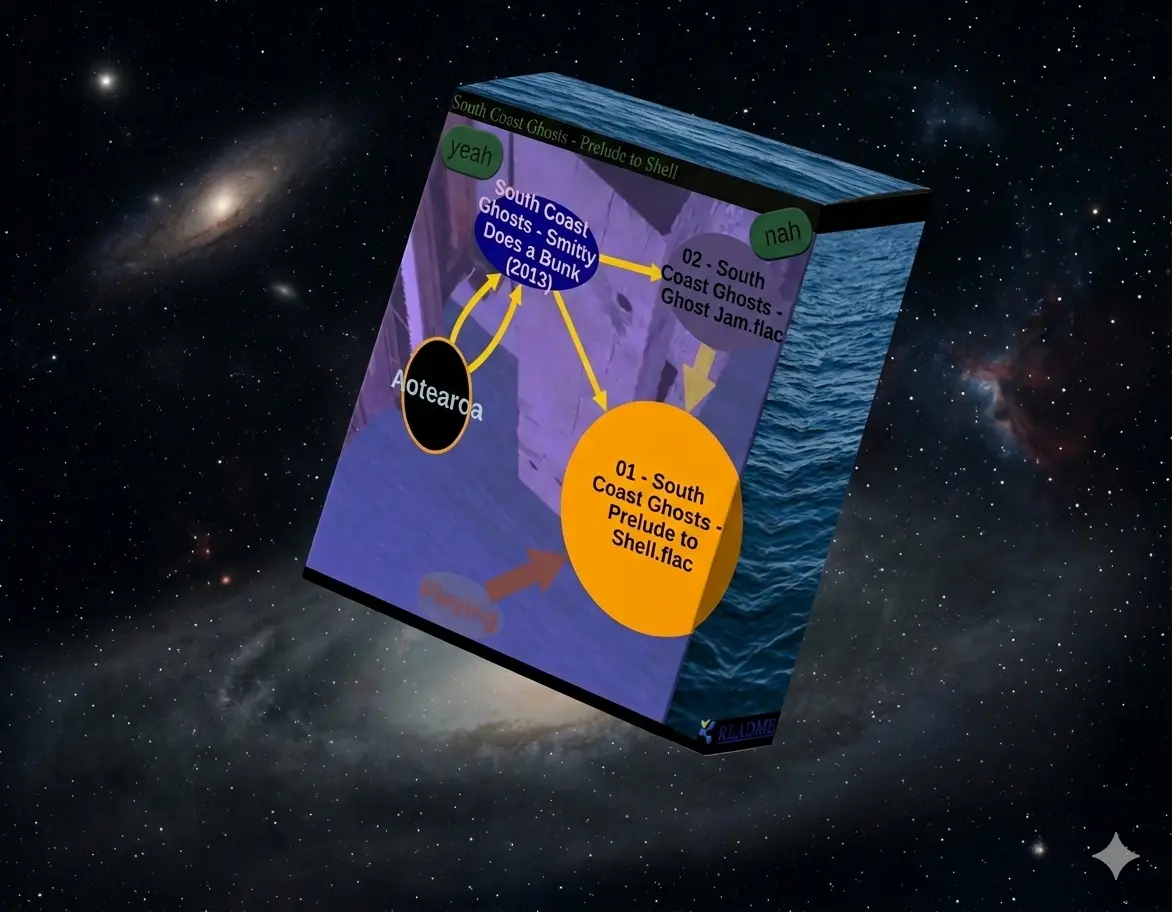
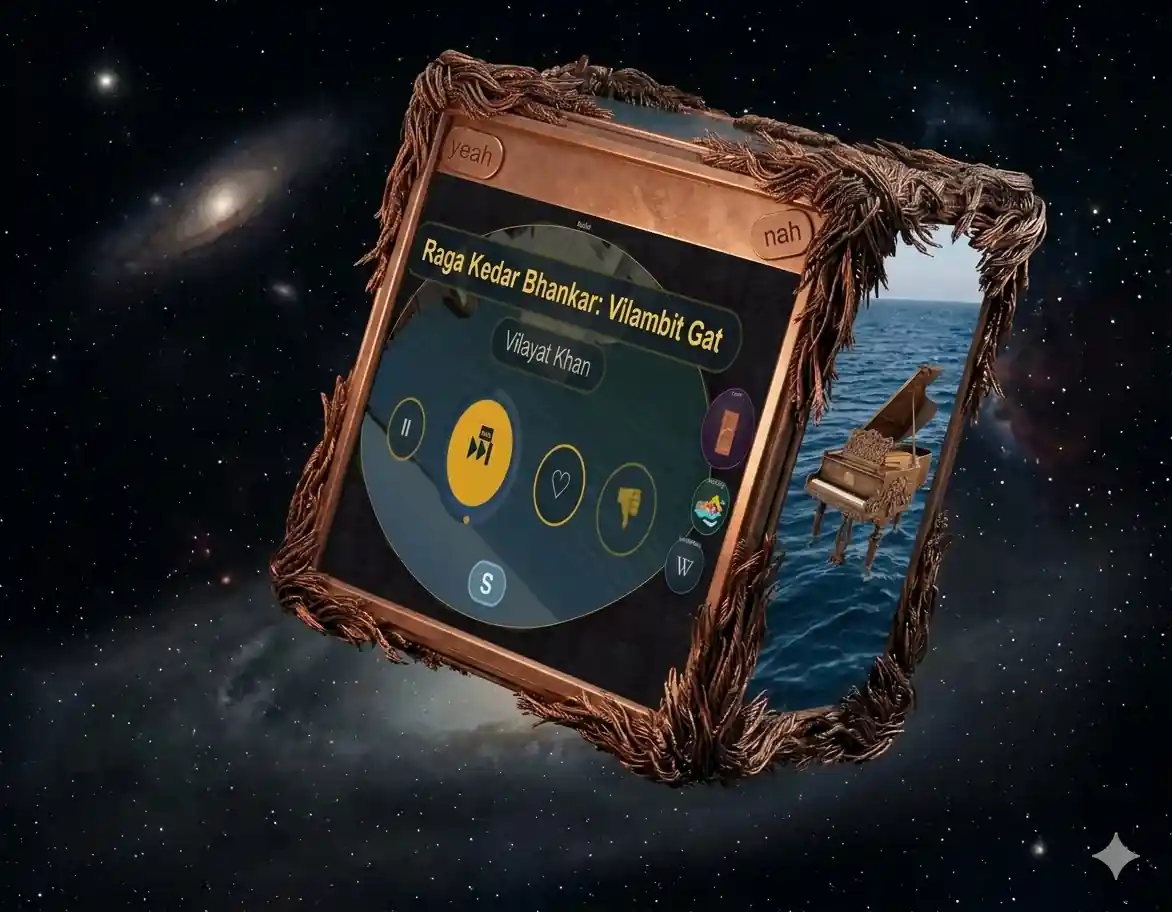
readmeing

diff --git a/src/lib/O/ui/PoolFace.svelte b/src/lib/O/ui/PoolFace.svelte
@@ -1,6 +1,12 @@
 <script lang="ts">
     import { page_nav } from "$lib/O/ui/page_nav"
-    // PoolFace — the %Pooling CELL as ONE SENTENCE (owner 2026-09-03, the final cut):
+    // PoolFace — the %Pooling CELL as ONE SENTENCE (owner 2026-11-11, the switch made a tickbox):
+    //   "SoundPooling [x] keeps rolling 212 / [ 300 ] MB of music in browser storage, sourced from …"
+    //  The TICKBOX is the switch: on = Ra_pool_start (consent, budget, one rolling compartment); off = Ra_pool_off,
+    //   which drops every pooled card, its file and the consent — the space comes back.  The first number is what
+    //    is pooled NOW (the pooled %Records' bytes, an estimate for any without), the second the budget (typing it
+    //     never switches pooling on or off).  Under it a live line: tracks, and the last one in.
+    //  (2026-09-03, the earlier cut, kept for its history):
     //   "SoundPool keeps rolling [ 300 ] MB of music in browser storage, sourced from [ ] friends (less
     //    predictable) and [x] crew (your devices, see Door)"
     //  One number, three checkboxes.  0 MB = off (Ra_pool_off cleans out).  A number = on (Ra_pool_start —
@@ -24,6 +30,9 @@
     let who = $state('crew')
     let recent = $state(true)
     let pooled = $state(0)
+    let cur_mb = $state(0)
+    let cur_est = $state(false)
+    let last_in = $state('')
     let free_gb = $state<number | null>(null)
     let persisted = $state<boolean | null>(null)
     // the origin's storage is evicted ALL AT ONCE under pressure (IndexedDB, OPFS, the identity stash together)
@@ -46,7 +55,16 @@
             recent = consent ? !!H.Ra_pool_recent_on?.(w) : true
             const pub = H.Radio_pub?.(w) || 'me'
             const shelf = H.Ra_pool_stock?.(w, pub) ?? null   // probed, never minted
-            pooled = shelf && H.Ra_recs ? (H.Ra_recs(shelf) as any[]).length : 0
+            const recs = shelf && H.Ra_recs ? (H.Ra_recs(shelf) as any[]) : []
+            pooled = recs.length
+            // what is pooled NOW: the bytes each pooled record says it holds; a record without a size counts at
+            //  the per-track guess (Ra_pool_track_mb) and the figure is marked approximate
+            let bytes = 0, unsized = 0
+            for (const r of recs) { const b = +(r.sc.bytes || 0); if (b > 0) bytes += b; else unsized++ }
+            cur_mb = Math.round(bytes / 1048576 + unsized * (+(H.Ra_pool_track_mb?.(w) || 0)))
+            cur_est = unsized > 0
+            const last = recs[recs.length - 1]
+            last_in = last ? [last.sc.artist, last.sc.title].filter(Boolean).map(String).join(' — ') : ''
         } catch {}
     })
     $effect(() => {
@@ -78,22 +96,39 @@
         if (!rs || !rs.length) return 0
         return rs.filter(r => r.state !== 'dead' && r.state !== 'refused').length
     })
+    // WHY NOT PLAYABLE — the report names each unplayable card's reason (Ra_pool_report's track rows); tallied so
+    //  "0/38 playable" says which of the three it is: no preview, a preview with no chunks behind it, no file
+    const unplayable = $derived.by(() => {
+        const t: Record<string, number> = {}
+        for (const r of (report?.tracks ?? []) as any[]) {
+            if (!r.why) continue
+            const k = /no preview/.test(r.why) ? 'no preview' : /no chunks/.test(r.why) ? 'preview but no chunks' : /no file/.test(r.why) ? 'no file' : r.why
+            t[k] = (t[k] ?? 0) + 1
+        }
+        return Object.entries(t)
+    })
     const friends = $derived(who === 'all' || who === 'friends')
     const crew = $derived(who === 'all' || who === 'crew')
+    // the budget: only moves the number — the tickbox is the switch
     function set_mb(v: number) {
         const w = world(); if (!w) return
         draft = clamp_mb(Math.max(0, Math.floor(v || 0)))
+        try { if (consent && draft > 0) { H.Ra_pool_budget_set?.(w, draft); bump() } } catch {}
+    }
+    // THE SWITCH.  On: the yes, the budget typed (300 if none), the who and recent as ticked.  Off: everything pooled
+    //  goes — cards, files, the yes (Ra_pool_off) — so unticking gives the space back.
+    function set_on(on: boolean) {
+        const w = world(); if (!w) return
         try {
-            if (draft === 0) { if (consent) { const p = H.Ra_pool_off?.(w); if (p && p.then) p.then(bump, bump); else bump() } }
-            else if (consent) { H.Ra_pool_budget_set?.(w, draft); bump() }
-            else {
-                H.Ra_pool_start?.(w, draft, Math.floor(Date.now() / 1000), who)
-                ask_persist()
-                // the FIRST yes is where the default is applied — one act, so a person who unticked it
-                //  before typing a number gets what they asked for and not what we assumed.
-                if (recent) { H.Ra_pool_recent_set?.(w, 1) }
-                bump()
-            }
+            if (!on) { if (consent) { const p = H.Ra_pool_off?.(w); if (p && p.then) p.then(bump, bump); else bump() } return }
+            if (consent) return
+            if (!(draft > 0)) draft = clamp_mb(300)
+            H.Ra_pool_start?.(w, draft, Math.floor(Date.now() / 1000), who)
+            ask_persist()
+            // the FIRST yes is where the recent default is applied — one act, so a person who unticked it first
+            //  gets what they asked for and not what we assumed.
+            if (recent) { H.Ra_pool_recent_set?.(w, 1) }
+            bump()
         } catch {}
     }
     function set_who(f: boolean, c: boolean) {
@@ -115,17 +150,24 @@
 {:else}
     <div class="pf pf-big">
         <p class="pf-sentence">
-            <b>SoundPool</b> keeps rolling
-            <input class="pf-mb" type="number" min="0" step="100" value={draft} onchange={(e) => set_mb(num(e))} title="megabytes of music to keep — 0 switches it off and clears it out" />
+            <b>SoundPooling</b>
+            <input class="pf-on" type="checkbox" checked={consent} onchange={(e) => set_on((e.currentTarget as HTMLInputElement).checked)}
+                title={consent ? 'on — untick to stop and delete everything pooled (the space comes back)' : 'off — tick to start keeping music in this browser'} />
+            keeps rolling
+            <span class="pf-nb"><b class="pf-cur" title={cur_est ? 'roughly — some tracks have no size recorded' : 'pooled now'}>{consent ? (cur_est ? '~' : '') + cur_mb : 0}</b> /
+            <input class="pf-mb" type="number" min="1" step="100" value={draft} onchange={(e) => set_mb(num(e))} title="megabytes of music to keep at most" /></span>
             <span class="pf-nb">MB of music</span> in browser storage{#if free_gb != null} <span class="pf-dim pf-nb">({free_gb} GB free{#if persisted === true} · persistent{:else if persisted === false} · <span title="the browser may clear this site's storage under pressure — everything at once, the pool and your identity with it">evictable</span>{/if})</span>{/if}, sourced from
             <label class="pf-ck"><input type="checkbox" checked={friends} onchange={(e) => set_who((e.currentTarget as HTMLInputElement).checked, crew)} /> friends <span class="pf-dim">(less predictable)</span></label>
             <label class="pf-ck"><input type="checkbox" checked={crew} onchange={(e) => set_who(friends, (e.currentTarget as HTMLInputElement).checked)} /> crew <span class="pf-dim">(your devices, see <button class="pf-link" onclick={() => page_nav(H, 'focus', 'Door')} title="opens the Door — your crew and friends">Door</button>)</span></label>
             and
-            <label class="pf-ck"><input type="checkbox" checked={recent} onchange={(e) => set_recent((e.currentTarget as HTMLInputElement).checked)} /> recent acquisitions <span class="pf-dim">(what you just downloaded)</span></label>{#if consent}<span class="pf-dim pf-nb"> · {pooled} pooled so far</span>{/if}
+            <label class="pf-ck"><input type="checkbox" checked={recent} onchange={(e) => set_recent((e.currentTarget as HTMLInputElement).checked)} /> recent acquisitions <span class="pf-dim">(what you just downloaded)</span></label>
+        </p>
+        <p class="pf-live pf-dim">
+            {#if consent}<span class="pf-nb">{pooled} track(s)</span>{#if last_in} · last in: <span class="pf-track" title={last_in}>{last_in}</span>{/if}{:else}<span class="pf-nb">off — nothing kept in this browser</span>{/if}
         </p>
         {#if report}
             <p class="pf-live pf-dim">
-                <span class="pf-nb">{report.ready}/{report.cards} playable</span> · <span class="pf-nb">{report.files} file(s) on disk</span>{#if report.uncatalogued} · <span class="pf-nb">{report.uncatalogued} uncatalogued</span>{/if}{#if report.lingering} · <span class="pf-nb">{report.lingering} evicted, lingering</span>{/if}{#if inflight} · <span class="pf-nb">{inflight} in flight</span>{/if}
+                <span class="pf-nb" title="a pooled track joins the radio only once it has a preview: carried from when you heard it, or encoded on a device with no folder or relay (the pocket). A never-heard circulation fill waits on disk, out of the radio (owner ruling 2026-10-04).">{report.ready}/{report.cards} dialable</span>{#if unplayable.length} <span class="pf-nb" title="why the rest cannot be dialled — from the pool report">({unplayable.map(([k, n]) => n + ' ' + k).join(' · ')})</span>{/if}{#if report.files !== report.cards} · <span class="pf-nb" title="files under pool/ — differs from the cards when a file lost its card or a card its file">{report.files} file(s) on disk</span>{/if}{#if report.uncatalogued} · <span class="pf-nb">{report.uncatalogued} uncatalogued</span>{/if}{#if report.lingering} · <span class="pf-nb">{report.lingering} evicted, lingering</span>{/if}{#if inflight} · <span class="pf-nb">{inflight} in flight</span>{/if}
             </p>
         {/if}
     </div>
@@ -145,6 +187,12 @@
     .pf-dim { opacity: .6; font-size: .85em; }
     .pf-mb { width: 4.5em; box-sizing: border-box; background: rgba(0, 0, 0, .35); color: inherit; border: 1px solid rgba(244, 230, 200, .35); border-radius: 6px; padding: .1rem .3rem; font: inherit; font-weight: 700; text-align: right; vertical-align: baseline; }
     .pf-ck { white-space: nowrap; cursor: pointer; }
+    .pf-on { width: 1.1em; height: 1.1em; vertical-align: -2px; margin: 0 .25em; cursor: pointer; }
+    .pf-cur { font-weight: 700; }
+    /* a track's own words stay in their box — a long or wild title must not run into the sentence around it */
+    .pf-track { display: inline-block; max-width: 22em; overflow: hidden; text-overflow: ellipsis; white-space: nowrap; vertical-align: bottom;
+        font-style: italic; font-family: Georgia, 'Times New Roman', serif; padding: 0 .35em; border-radius: 4px; background: rgba(244, 230, 200, .08);
+        unicode-bidi: isolate; }
     .pf-ck input { vertical-align: -1px; margin: 0 .2em 0 0; }
     .pf-link { pointer-events: auto; cursor: pointer; background: none; border: none; padding: 0; color: inherit; font: inherit; text-decoration: underline; opacity: .9; }
 </style>

diff --git a/src/lib/O/ui/InvitePanel.svelte b/src/lib/O/ui/InvitePanel.svelte
@@ -170,7 +170,9 @@
             //  2026-08-12).  Minting no longer plants a particle per invite — it winds one counter.
             // an invite opens the app at its ROOT (owner 2026-10-26: BigSoundland is `/`, "which the Invites should say") —
             //  a music page anywhere else (/BigSoundland) still mints for `/`; any other room keeps its own path.
-            const room = /^\/(BigSoundland\/?)?$/.test(location.pathname) ? '/' : location.pathname
+            //  /Radio too (2026-11-10, a headless newcomer): it mints no identity for a stranger and never redeems ?Iz yet, so an
+            //   invite from it landed on a splash stuck at "in we go".  Until / mounts Radio (AtheoryArrive_todo §5), arrivals go to /
+            const room = /^\/(BigSoundland\/?|Radio\/?)?$/.test(location.pathname) ? '/' : location.pathname
             url = await H.Swarm_invite_url(null, self, { Music: 1 }, location.origin + room)
             open_big()
         } catch (e) { err = String(e) }

diff --git a/src/lib/server/relay.ts b/src/lib/server/relay.ts
@@ -1438,6 +1438,12 @@ export function attachRelay(
 			clearInterval(tallyTimer)
 			watchDesk.close()
 			peerLink?.close()
+			// END OUR CLIENTS TOO (2026-11-10): ws 8's wss.close() leaves open connections alone, and the heartbeat that would reap them
+			//  was just cleared — so on an in-process vite restart every socket on the OLD relay lived on in a closure with nobody
+			//   in it.  Tabs escape (vite reloads them); the daemon is a node client and doesn't: S sat "open" for 45 min hearing
+			//    `who_ok 0/30` while eed was live on the new relay, and a newcomer's pier_hello to S vanished.  Terminated, it re-dials
+			//     (its own backoff) into the new relay
+			for (const c of wss.clients) { try { c.terminate() } catch {} }
 			wss.close()
 			delete (httpServer as any)[ATTACHED]
 		},

diff --git a/README.md b/README.md
@@ -4,17 +4,25 @@ modern music piracy in the browser
 
 ![at sea](static/screenshot.webp)
 
-An invite gets you the ability to invite other peers. Ideally you and your peer are present somewhere you have wifi, with your phones, to begin with...
+Someone sends you a link. You open it and you're listening to their music collection — dropped into the middle of a random track, like tuning a radio. Nothing to install, no account, no strangers.
 
-# the particle graph
+**🔥safety🏠** No strangers exist, only your contacts. Could be better, but it's fantastic.
 
-**🔥safety🏠** Could be better but is fantastic. No strangers exist, only your contacts.
+**🦊p2p🐉** Music comes from the connections you make. Manipulation is impossible.
 
-**🦊p2p🐉** Music comes from connections you make. Manipulation is impossible.
+**🌊experience🎶** of listening, jumping tracks, and plotting Heists...
 
-**🌊experience🎶** You listen to someone’s music collection, always jumping into the middle of a random track, like tuning a radio. Normal, everyday options spring up.
+**🚛Heists📦** Preserve directory structure, move whole albums, and may end up on another computer via Link Device.
 
-**🚛downloads📦** Preserve directory structure, tend to move whole albums, and restart if interrupted.
+# your devices
+
+The catch: A phone browser can't keep a music folder. A computer running Chrome can. So you **Link Device**: the device you started on shows a QR code, you open it on the other, and from then on they are both *you* — your friends see one person, not two.
+
+**Heists land on the computer.** A Heist you start on the phone is written into the computer's folder, album by album.
+
+**🏊 SoundPooling** keeps a fresh, shuffled handful of tracks inside the phone's browser, so there's always something to play with no signal. Whenever both devices are on at once, the pool is topped up and turned over. It's off until you switch it on, in its 🏊 cell: choose how many MB it may use, and whether it pools from your friends, your own devices, or both.
+
+That's the idea under all of it: your own little infrastructure, stretched across whatever devices you have, so music stays near you.
 
 # development
 
@@ -32,9 +40,9 @@ Lies+Lang are compiler|infra and code editor for a new language with more path e
 
 ## Atheory - metaphysics and H|A|w|req
 
-What are these types, really... Probably merge into A, but keep w, and r, which is distinct from n, e... the %Aw pointer somewhere in, and indeed method resolution and precise imports...
+Atheory is the model of reality underneath everything: the containers (H), the actors living in them (A), their works (w) and the machine of requirements (req) that drives them — done again so the program is made of the same legible stuff as the data it holds.
 
-It has a nice style+house pattern emerging: Stuff and Housing are very central to everything yet opposite in nature... universal and empirical. the players and the canopy lighting timeclock.
+A generalised sloped wall leading into the dialectic nestling of computation, so the program can see itself. Every part will declare where it stands, every event will leave a footprint, and nothing will happen that cannot be walked back to and looked at again. The code will become a landscape, and we will cross it on foot.
 
 ## Vyto - the attractor
 
@@ -56,13 +64,9 @@ So there's a "your personal infra" to work out how to stretch music availability
 
 # funding
 
-[You may send tips here!](https://ko-fi.com/ostylehouse) Funds may be for specifics soon, probably starting with educational videos...
+[You may send tips here!](https://ko-fi.com/ostylehouse) Funds may be for specifics soon, probably starting with education... Open issues about funding opportunities we could chase...
 
 # notes
-
-DevTools with 'pause on exception' will need to ignore the line in Decoder.ts with a meaningless RangeError, etc, it sometimes adds random breakpoints, which can be ignored or switched off in the expandy-rack to the right, between Watch and Scope.
-
-Identities (an OurPeering) can be copied out of and into the UI somewhere, if you defeat the FaceSucker
 
 ## objects, data layer
 
@@ -77,7 +81,7 @@ We can note the name of a C variable, and some relevant structure and properties
 
 ``Waft`` is well known, but ``%somethingelse`` (with a % sigil) may be clearer on its own...
 
-``Text%dige`` is a property of a thing: a Text's dige.
+``Text%dige`` equivalent to ``%Text,dige``, but with %dige emphasised.
 
 ``Waft/What**/Doc`` is about a %Doc inside perhaps many layers of %What, in a %Waft - `**` meaning recursing.
 
@@ -85,9 +89,7 @@ We can note the name of a C variable, and some relevant structure and properties
 
 *Stuffing* puts them on the screen efficiently, grouping like stuff, compressing communication.
 
-*Travel* does recursion into trees of C (aka C**, eg C/C, C/C/C, etc).
-
-*Selection* is *Travel* with change tracking and enough thinking to be useful for eg mirroring nodes into cytoscape. It should be a fairly universal type of stuff-going-on. We usually simply put something somewhere and realise it's the same thing we put there last time, and this is an attempt to formalise that part of reality... Wants lifecycles, beings, situations...
+*Seem* does recursion into trees of C (aka C**, eg C/C, C/C/C, etc) with change tracking and enough thinking to be useful for eg mirroring nodes into cytoscape. It should be a fairly universal type of stuff-going-on. We usually want to put something somewhere and realise it's the same thing we put there last time, and this is an attempt to formalise that part of reality... Wants lifecycles, beings, situations...
 
 *House* is an agenda to attend to, has a heartbeat, provides persistent memory.
 
@@ -97,10 +99,10 @@ Then many further *Objects* are not javascript classes of their own, but are *Th
 
 ### Ultimately
 
-- machine should be more visually pleasing and competent
-- C and everything in Stuff.svelte.ts
-- Stuff.replace() and Stuff.resolve() (aka re-identity) are important to adapt to and study academically, for a design pattern more suited to [merge](https://en.wikipedia.org/wiki/Merge_(linguistics))
-- Selection.process() as a care factory for intersecting realities
+- machine should be much more visually pleasing and competent
+- moving beyond C-like language
+- Seem as a care factory for intersecting realities
+- Stuff.replace() and Stuff.resolve() (aka re-identity) are important to adapt to and study academically, for a reductionist design pattern more suited to [merge](https://en.wikipedia.org/wiki/Merge_(linguistics)) 
 
 ## goals
 
@@ -152,9 +154,7 @@ Behind a port-forward + dynamic-DNS name, your own LAN usually can't reach your 
 
 A browser tab is a bad place to keep a server: it closes, it sleeps, it forgets. **jamserve** is the same
  jamsend app running on nodejs in its own container — it holds your collection, serves heists, and is
-  standing there when someone finally redeems an Invite you handed out weeks ago. A third thing
-   alongside dev (`docker compose up`) and prod (*prod.sh*) — it shares their compose file but sits
-    behind a profile, so it only ever starts when you name it.
+  standing there when someone finally redeems an Invite you handed out weeks ago.
 
 see [jamserve/README.md](jamserve/README.md)
 

diff --git a/src/lib/O/spec/AtheoryArrive_todo.md b/src/lib/O/spec/AtheoryArrive_todo.md
@@ -68,6 +68,12 @@ Started 2026-11-04 from the Supervisor talk (`AtheoryNexus_todo.md` E, "NEXT SES
     and a pulse from eed arriving meanwhile got a reply hi with NO voucher (swarm_hi bypasses Swarm_deliver's hold).  Swarm_hi_one
      now sends nothing while `w.c.voucher_signing` (≤10s); the on_open Swarm_hi_all greets everyone once it stands.  Needs a
       jamserve restart; Books never set station_up, so only a live restart shows it.  The Door row from today stays until cleared.
+   **Relay close leaves its clients (hygiene, 2026-11-10):** ws 8's `wss.close()` leaves open sockets and relay `close()` clears the
+    heartbeat, so an in-process vite restart would strand any non-tab client (a daemon) on the old closure.  relay.ts `close()` now
+     terminates them.  NOT what happened tonight — I read the daemon (moved to prod, `who_ok 0/30` there) as a zombie on dev.
+   **/Radio does not take arrivals yet:** no page-default identity (Otro has no `id_role`) and nothing redeems `?Iz`, so an invite
+    landing there sits on "in we go".  InvitePanel now mints `/` for invites made on /Radio (as for /BigSoundland).  Real fix =
+     §5's "/ mounts Radio": give the Desk page `id_role:'sound'` + the invite welcome.
    **How far ahead we pull (owner: "silly to load more than 4 … a function of how fast provisioning happens when wanted"):**
     `Ra_warm_ahead` caps the friend records BEGUN at once — 4 before the first play, then 4 + 2/s of the path's RTO, ≤12 —
      unheard first (a heard one only begins once no unheard waits; then the cap counts them all).  The boot walk of the whole
